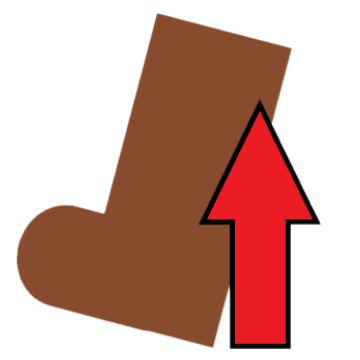
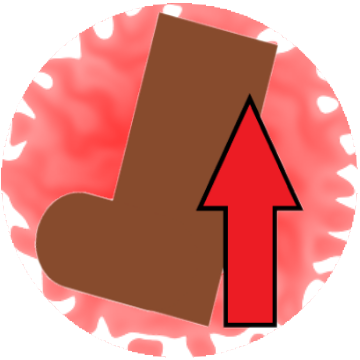
背景調整・sp変更

diff --git a/寿司チョコレート-流れ魚/寿司チョコレート-流れ魚/ObjBackground_2.cpp b/寿司チョコレート-流れ魚/寿司チョコレート-流れ魚/ObjBackground_2.cpp
@@ -43,18 +43,19 @@ void CObjBackground_2::Action()
 		{
 			End_P = true;
 		}
+		else if (n == 7 && m_y1 >= 10.0f && m_y1 <= 14.0f)
+		{
+			End_P = true;
+		}
 		else if (n < 10 && m_y1 >= 0.0f && m_y1 <= 9.0f)
 		{
 			End_P = true;
 		}
-		else if (n == 9 && m_y1 >= 14.0f && m_y1 <= 16.0f)
+		else if (n == 9 && m_y1 >= 12.0f && m_y1 <= 17.0f)
 		{
 			End_P = true;
 		}
-		else if (n == 7 && m_y1 >= 11.0f && m_y1 <= 13.0f)
-		{
-			End_P = true;
-		}
+		
 	}
 	else
 	{
@@ -130,6 +131,8 @@ void CObjBackground_2::Draw()
 		dst.m_left = 250.0f;
 		dst.m_right = 820.0f;
 		dst.m_bottom = 605.0f  - m_y1;
+		if (n > 10)
+			dst.m_bottom = 610.0f - m_y1;
 
 		Draw::Draw(0, &src, &dst, c, 0.0f);
 	}
@@ -140,6 +143,8 @@ void CObjBackground_2::Draw()
 		dst.m_left = 238.0f;
 		dst.m_right = 808.0f;
 		dst.m_bottom = 605.0f - m_y1;
+		if (n > 10)
+			dst.m_bottom = 610.0f - m_y1;
 
 		Draw::Draw(4, &src, &dst, c, 0.0f);
 	}
@@ -150,6 +155,8 @@ void CObjBackground_2::Draw()
 		dst.m_left = 233.2f;
 		dst.m_right = 803.2f;
 		dst.m_bottom = 605.0f  - m_y1;
+		if (n > 10)
+			dst.m_bottom = 610.0f - m_y1;
 
 		Draw::Draw(5, &src, &dst, c, 0.0f);
 	}

diff --git a/寿司チョコレート-流れ魚/寿司チョコレート-流れ魚/ObjBackground.cpp b/寿司チョコレート-流れ魚/寿司チョコレート-流れ魚/ObjBackground.cpp
@@ -48,18 +48,19 @@ void CObjBackground::Action()
 		{
 			end_P = true;
 		}
+		else if (n == 7 && m_y1 >= 10.0f && m_y1 <= 14.0f)
+		{
+			end_P = true;
+		}
 		else if (n < 9 && m_y1 >= 0.0f && m_y1 <= 9.0f)
 		{
 			end_P = true;
 		}
-		else if (n == 9 && m_y1 >= 14.0f && m_y1 <= 16.0f)
+		else if (n == 9 && m_y1 >= 12.0f && m_y1 <= 17.0f)
 		{
 			end_P = true;
 		}
-		else if (n == 7 && m_y1 >= 11.0f && m_y1 <= 13.0f)
-		{
-			end_P = true;
-		}
+		
 	}
 	else
 	{
@@ -159,6 +160,8 @@ void CObjBackground::Draw()
 		dst.m_left = 250.0f;
 		dst.m_right = 820.0f;
 		dst.m_bottom = 605.0f  - m_y1;
+		if(n>10)
+			dst.m_bottom = 610.0f - m_y1;
 
 		Draw::Draw(0, &src, &dst, c, 0.0f);
 	}
@@ -169,6 +172,8 @@ void CObjBackground::Draw()
 		dst.m_left = 238.0f;
 		dst.m_right = 808.0f;
 		dst.m_bottom = 605.0f  - m_y1;
+		if (n > 10)
+			dst.m_bottom = 610.0f - m_y1;
 
 		Draw::Draw(4, &src, &dst, c, 0.0f);
 	}
@@ -179,6 +184,8 @@ void CObjBackground::Draw()
 		dst.m_left = 233.2f;
 		dst.m_right = 803.2f;
 		dst.m_bottom = 605.0f  - m_y1;
+		if (n > 10)
+			dst.m_bottom = 610.0f - m_y1;
 
 		Draw::Draw(5, &src, &dst, c, 0.0f);
 	}
